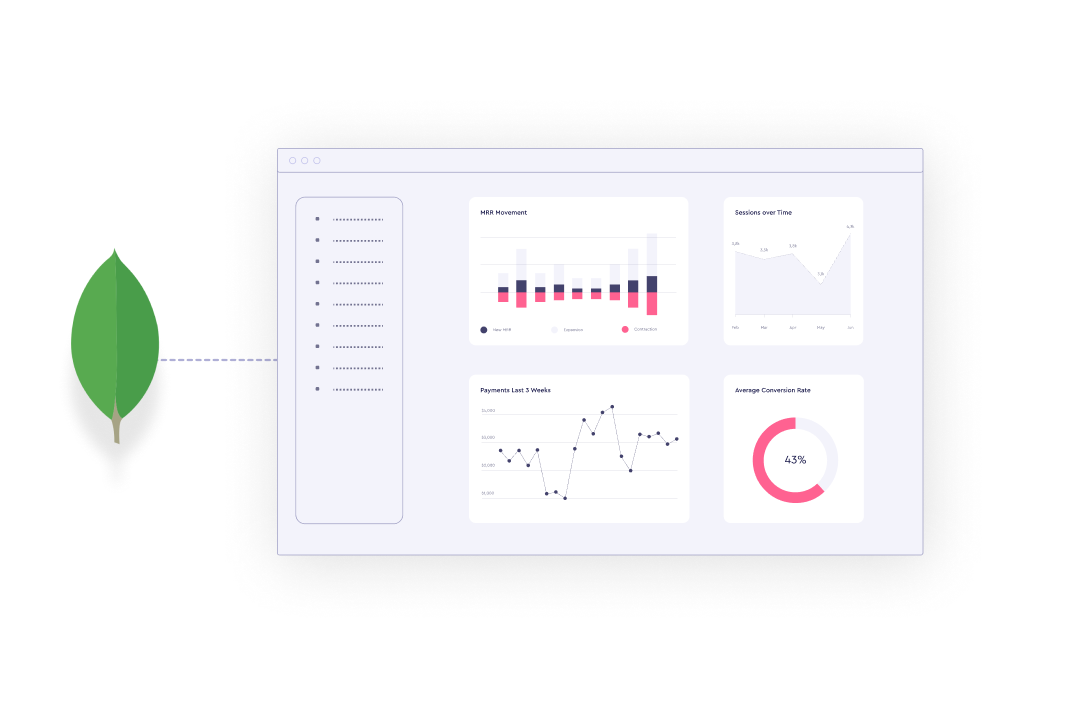
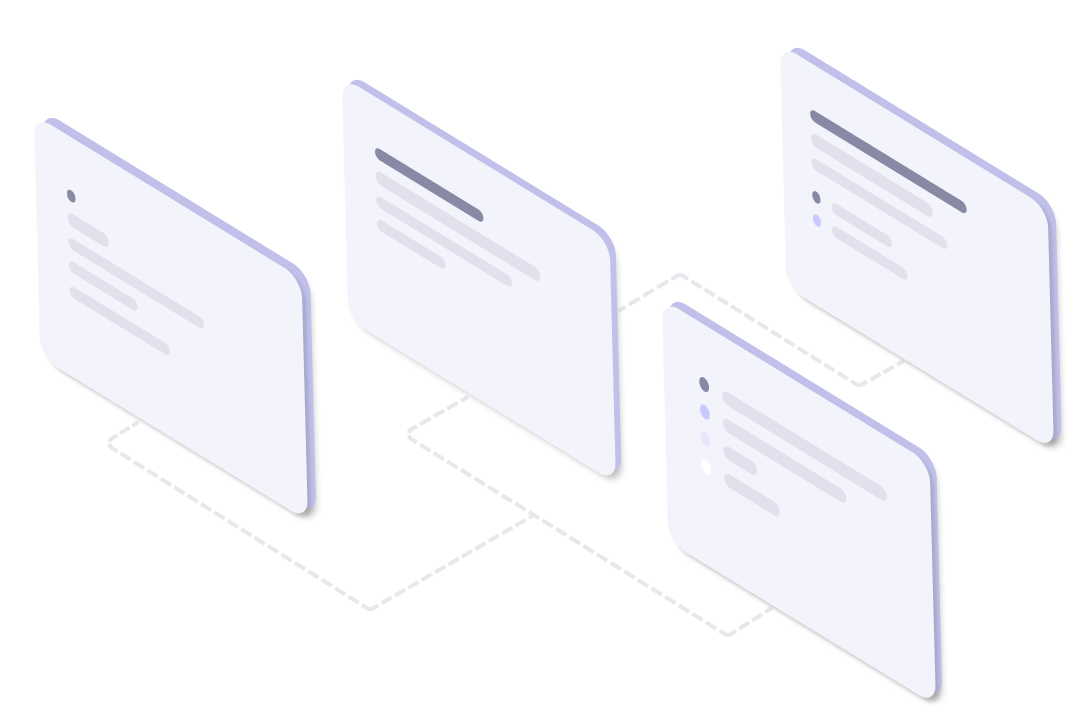
D3 Dashboard guide updates

diff --git a/guides/d3-dashboard/src/pages/index.jsx b/guides/d3-dashboard/src/pages/index.jsx
@@ -39,7 +39,7 @@ class Index extends React.Component {
           imageAlign='left'
           image={featureOneImg}
           metaTitle="d3 dashboard example"
-          title="Build Dashboard App with D3 and React"
+          title="Build Interactive Dashboard App with D3"
           text="This guide shows how to build a dashboard application with React, D3.js and Material UI. You’ll learn how to set up a database, seed it with data, build an API endpoint on top of it, and then visualize data on the frontend with D3.js."
         />
         <Feature

diff --git a/guides/d3-dashboard/content/5_adding_interactivity.md b/guides/d3-dashboard/content/5_adding_interactivity.md
@@ -1,0 +1,138 @@
+---
+order: 5
+title: "Adding Interactivity"
+---
+
+In this chapter we'll add a filter to our dashboard to make it more interactive.
+The filter will allow users to look at specific sets of orders based on their
+status: processing, completed or shipped.
+
+Cube.js makes it easy to add such
+dynamic features, because we don't need to add anything to our data schema. We
+already have a dimension `Orders.status` and we can just filter by this
+dimension by adding filters properties to our JSON query.
+
+Say we have a following query, which is used to plot an area chart with number
+of orders over time grouped by the product category.
+
+```javascript
+{
+  measures: ["Orders.count"],
+  timeDimensions: [
+    {
+      dimension: "Orders.createdAt",
+      granularity: "month",
+      dateRange: "last year"
+    }
+  ],
+  dimensions: ["ProductCategories.name"]
+}
+```
+
+To load only completed orders with this query we need to add a filters property
+to it.
+
+```javascript
+{
+  measures: ["Orders.count"],
+  timeDimensions: [
+    {
+      dimension: "Orders.createdAt",
+      granularity: "month",
+      dateRange: "last year"
+    }
+  ],
+  filters: [
+    {
+      member: "Orders.status",
+      operator: "equals",
+      values: ["completed"]
+    }
+  ],
+  dimensions: ["ProductCategories.name"]
+}
+```
+
+You can learn about all the filters operators in the [query format
+docs](https://cube.dev/docs/query-format#filters-operators).
+
+So all we need to do to make the filter work is to conditionally add this
+filters property to all our dashboard queries. To do this let's introduce the
+`dashboardItemsWithFilter` method in `dashboard-app/src/pages/DashboardPage.js`.
+In this method we check if the filter value s any other rather than "all" we inject the filters
+property with the corresponding filter value to all the queries.
+
+```javascript
+const dashboardItemsWithFilter = (dashboardItems, statusFilter) => {
+  if (statusFilter === "all") {
+    return dashboardItems;
+  }
+
+  const statusFilterObj = {
+    member: "Orders.status",
+    operator: "equals",
+    values: [statusFilter]
+  };
+
+  return dashboardItems.map(({ vizState, ...dashboardItem }) => (
+    {
+      ...dashboardItem,
+      vizState: {
+        ...vizState,
+        query: {
+          ...vizState.query,
+          filters: (vizState.query.filters || []).concat(statusFilterObj),
+        },
+      }
+    }
+  ))
+};
+```
+
+Now, we need to render the user input for the filter. We can use `<ButtonGroup />` component from Material UI kit for this and render button per the possible state of the order plus the "All" button. We'll use React `useState` hook to store and update the filter value.
+
+
+First make sure to import `useState` and required components from Material UI.
+
+```diff
+-import React from "react";
++import React, { useState } from "react";
++import Button from '@material-ui/core/Button';
++import ButtonGroup from '@material-ui/core/ButtonGroup';
+```
+
+Next, we render the buttons group and changing the value of the `statusFilter`
+on button's click. Note, that we use newly created `dashboardItemsWithFilter` method to
+iterate over dashboard items for rendering.
+
+```diff
+-  return DashboardItems.length ? (
+-    <Dashboard>{DashboardItems.map(dashboardItem)}</Dashboard>
+-  ) : (
++  const [statusFilter, setStatusFilter] = useState("all");
++  return DashboardItems.length ? ([
++    <ButtonGroup style={{ padding: "24px 24px 0 24px" }} color="primary">
++      {["all", "processing", "completed", "shipped"].map(value => (
++        <Button
++          variant={value === statusFilter ? "contained" : ""}
++          onClick={() => setStatusFilter(value)}>
++          {value.toUpperCase()}
++        </Button>
++      ))}
++    </ButtonGroup>,
++    <Dashboard>
++      {dashboardItemsWithFilter(DashboardItems, statusFilter).map(dashboardItem)}
++    </Dashboard>
++  ]) : (
+```
+
+That is all we need to create a simple filter and make our D3 dashboard dynamic
+and interactive.
+
+![](/images/5-screenshot-1.png)
+
+Congratulations on completing this guide! 🎉
+
+You can check [the online demo of this dashboard here](http://d3-dashboard-demo.cube.dev/) and [the complete source code of the example app is available on Github](https://github.com/cube-js/cube.js/tree/master/examples/d3-dashboard).
+
+I’d love to hear from you about your experience following this guide. Please send any comments or feedback you might have in this [Slack Community](http://slack.cube.dev/). Thank you and I hope you found this guide helpful!

diff --git a/guides/d3-dashboard/content/4_frontend_dashboard.md b/guides/d3-dashboard/content/4_frontend_dashboard.md
@@ -121,8 +121,5 @@ As I mentioned in the previous chapter the default value for the `pivotConfig` u
 
 To customize the rendering of the charts, you can edit the `dashboard-app/src/pages/ChartRenderer.js` file. It should look familiar to what we saw in the previous chapter.
 
-You can check [the online demo of this dashboard here](http://d3-dashboard-demo.cube.dev/) and [the complete source code of the example app is available on Github](https://github.com/cube-js/cube.js/tree/master/examples/d3-dashboard).
-
-Congratulations on completing this guide! 🎉
-
-I’d love to hear from you about your experience following this guide. Please send any comments or feedback you might have in this [Slack Community](http://slack.cube.dev/). Thank you and I hope you found this guide helpful!
+In the next, final, chapter I'll show you how to add a filter to the dashboard
+and make it more interactive and dynamic.
